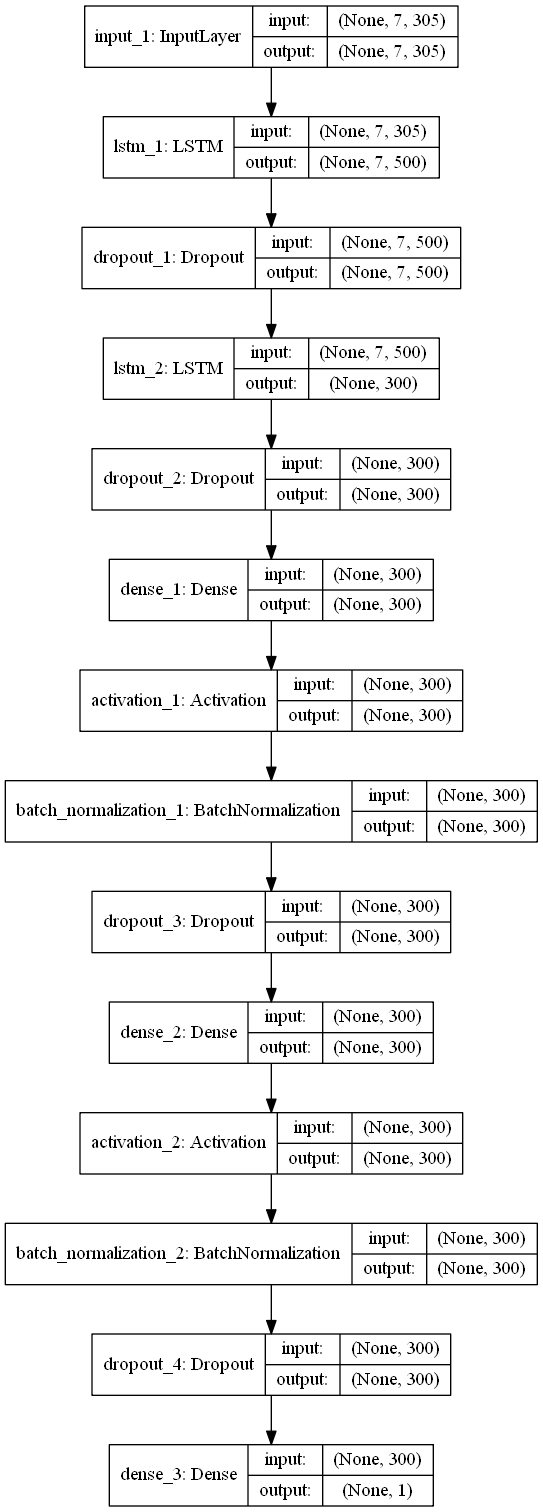
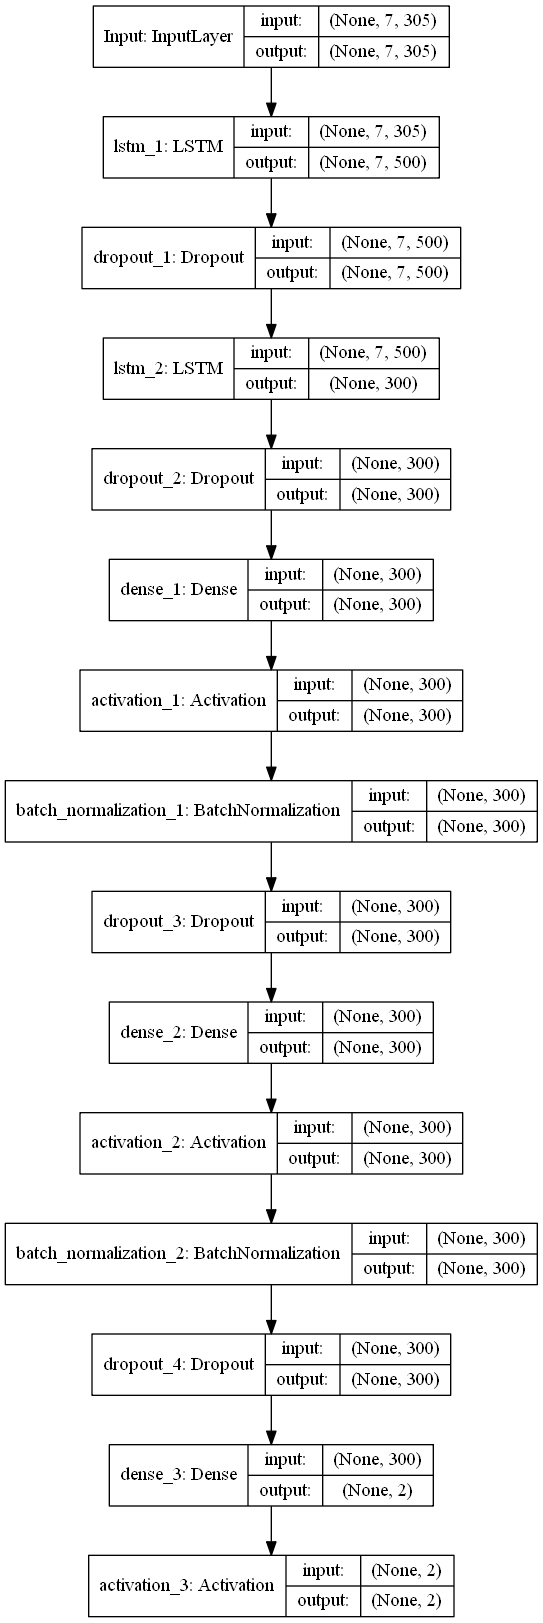
MSE -> CrossEntropy

Changed region(s): [[0.0, 0.0, 1.0, 1.0], [0.1768, 0.2487, 0.2063, 0.2798]]

diff --git a/lab3/MultiHeadlineTickForcasting.py b/lab3/MultiHeadlineTickForcasting.py
@@ -109,7 +109,7 @@ def make_doc_embeddings():
                 event_date = datetime.strptime(date, '%Y-%m-%d')
                 
                 cur.execute("SELECT date, source, rawcontent FROM headlines WHERE stock=? AND date BETWEEN ? AND ? ORDER BY date DESC", 
-                            [stock, add_time(event_date, -14), date])
+                            [stock, add_time(event_date, -12), date])
                 headlines = [(date, source, clean(content), (event_date - datetime.strptime(date, '%Y-%m-%d')).days) 
                                  for (date, source, content) in cur.fetchall() if content]
                 
@@ -194,9 +194,11 @@ def make_tick_data():
 
                     window_ticks -= np.mean(fifty_ticks, axis=0)
                     window_ticks /= np.std(fifty_ticks, axis=0)
-
-                    # Percent Diff (/ Normalization Constant)
-                    effect = [(result_tick - previous_tick) / previous_tick / 0.023]
+                    
+                    if result_tick > previous_tick:
+                        effect = [1., 0.]
+                    else:
+                        effect = [0., 1.]
                     
                     tick_vecs[stock][date] = window_ticks
                     effect_vecs[stock][date] = effect
@@ -275,7 +277,7 @@ def correct_sign_acc(y_true, y_pred):
 
 def get_model():
     
-    model_input = Input(shape=(tick_window, 305), name="(Batch, Days, Ticks + Headlines)")
+    model_input = Input(shape=(tick_window, 305), name="Input")
     
     rnn = LSTM(500, return_sequences=True)(model_input)
     rnn = Dropout(0.3)(rnn)
@@ -293,11 +295,12 @@ def get_model():
     dense = BatchNormalization()(dense)
     dense = Dropout(0.3)(dense)
     
-    pred_output = Dense(1)(dense)
+    dense = Dense(2)(dense)
+    pred_output = Activation('softmax')(dense)
     
     model = Model(inputs=model_input, outputs=pred_output)
     
-    model.compile(optimizer=RMSprop(), loss='mse', metrics=[correct_sign_acc])
+    model.compile(optimizer=RMSprop(), loss='categorical_crossentropy', metrics=['acc'])
     
     return model
 
@@ -321,6 +324,12 @@ if __name__ == "__main__":
 
 # In[8]:
 
+X, Y, test_indices = merge_data(doc_vecs, tick_vecs, effect_vecs)
+X.shape
+
+
+# In[9]:
+
 # TRAIN MODEL
 
 if __name__ == "__main__":  
@@ -329,7 +338,7 @@ if __name__ == "__main__":
     
     model = get_model()
     
-    monitor_mode = 'correct_sign_acc'
+    monitor_mode = 'acc'
     
     tensorboard = TensorBoard(log_dir="logs/{}".format(datetime.now().strftime("%Y,%m,%d-%H,%M,%S,tick," + model_type)))
     e_stopping = EarlyStopping(monitor='val_loss', patience=50)
@@ -344,7 +353,7 @@ if __name__ == "__main__":
     
     history = model.fit(X,
                         Y,
-                        validation_split=.9,
+                        validation_data=(testX, testY),
                         callbacks=[e_stopping, tensorboard],
                         **keras_options)
     
@@ -361,7 +370,7 @@ if __name__ == "__main__":
     plt.show()
 
 
-# In[9]:
+# In[10]:
 
 # AoC
 
@@ -372,12 +381,12 @@ if __name__ == "__main__":
     
     try:
         
-        actualY = (testY > 0) * 2 - 1
+        actualY = testY
         predictY = model.predict(testX)
         
         print("ROC", roc_auc_score(actualY, predictY))
         
-        print(confusion_matrix(actualY > 0, predictY > 0))
+        print(confusion_matrix(testY[:, 0] > .7, predictY[:, 0] > .7))
         
     except NameError:
         
@@ -385,7 +394,7 @@ if __name__ == "__main__":
     
 
 
-# In[10]:
+# In[ ]:
 
 # # Predict (TEST)
 
@@ -467,7 +476,7 @@ if __name__ == "__main__":
     
 
 
-# In[11]:
+# In[ ]:
 
 # # [TEST] Spot Testing
 
